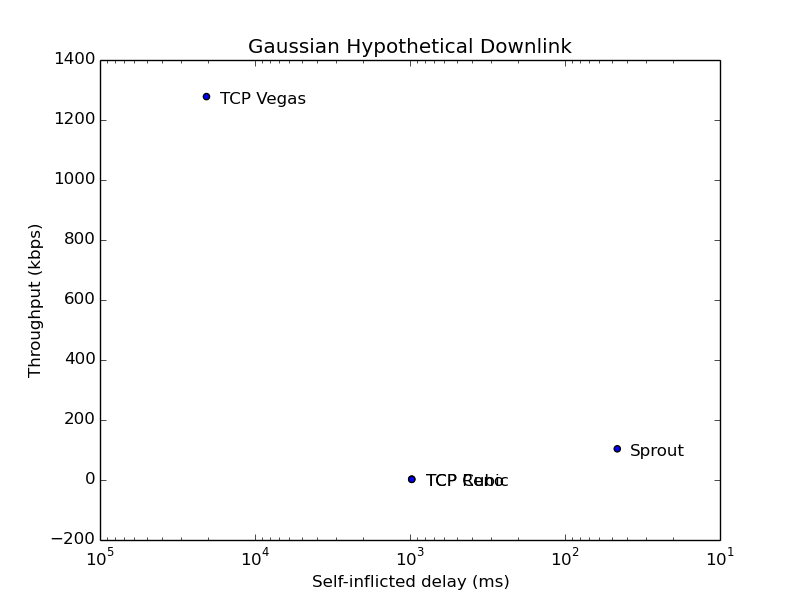
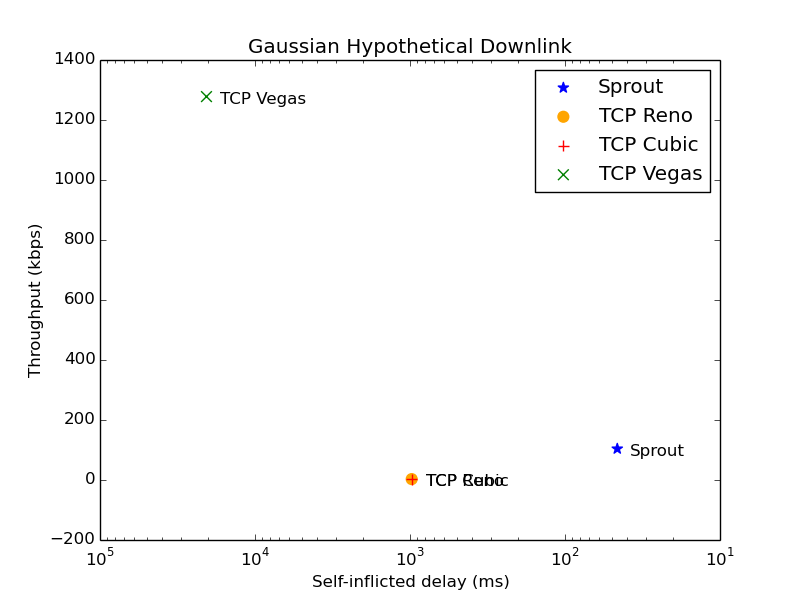
Prettify plots

Changed region(s): [[0.6562, 0.09, 0.9062, 0.33], [0.5, 0.78, 0.5312, 0.81], [0.25, 0.15, 0.2812, 0.18]]

diff --git a/create_plots.py b/create_plots.py
@@ -31,6 +31,20 @@ APPLICATION_NAME = {
     'tcp_vegas': 'TCP Vegas'
 }
 
+MARKER_STYLE = {
+    'sprout': '*',
+    'tcp_cubic': '+',
+    'tcp_vegas': 'x',
+    'tcp_reno': 'o'
+}
+
+COLOR = {
+    'sprout': 'b',
+    'tcp_cubic': 'r',
+    'tcp_vegas': 'g',
+    'tcp_reno': '#FFA500'
+}
+
 def read_data(path):
     with open(path) as f:
         return int(f.read())
@@ -139,24 +153,34 @@ def _plot(network, data, mode, error = False):
     plt.title('%s %s' % (NETWORK_NAME[network], mode.title()))
 
     if not error:
-        plt.scatter(
-            [data[app]['ud' if mode == 'uplink' else 'dd'] for app in data],
-            [data[app]['ut' if mode == 'uplink' else 'dt'] for app in data]
-        )
+        for app in data:
+            plt.scatter(
+                data[app]['ud' if mode == 'uplink' else 'dd'],
+                data[app]['ut' if mode == 'uplink' else 'dt'],
+                marker = MARKER_STYLE[app],
+                color = COLOR[app],
+                label = APPLICATION_NAME[app],
+                s = 60
+            )
     
     else:
-        plt.scatter(
-            [data[app]['ud-mean' if mode == 'uplink' else 'dd-mean'] for app in data],
-            [data[app]['ut-mean' if mode == 'uplink' else 'dt-mean'] for app in data]
-        )
-        plt.errorbar(
-            [data[app]['ud-mean' if mode == 'uplink' else 'dd-mean'] for app in data],
-            [data[app]['ut-mean' if mode == 'uplink' else 'dt-mean'] for app in data],
-            [data[app]['ud-std' if mode == 'uplink' else 'dd-std'] for app in data],
-            [data[app]['ut-std' if mode == 'uplink' else 'dt-std'] for app in data],
-            fmt = None
-        )
-    
+        for app in data:
+            plt.scatter(
+                data[app]['ud-mean' if mode == 'uplink' else 'dd-mean'],
+                data[app]['ut-mean' if mode == 'uplink' else 'dt-mean'],
+                marker = MARKER_STYLE[app],
+                color = COLOR[app],
+                label = APPLICATION_NAME[app],
+                s = 60
+            )
+            plt.errorbar(
+                data[app]['ud-mean' if mode == 'uplink' else 'dd-mean'],
+                data[app]['ut-mean' if mode == 'uplink' else 'dt-mean'],
+                data[app]['ud-std' if mode == 'uplink' else 'dd-std'],
+                data[app]['ut-std' if mode == 'uplink' else 'dt-std'],
+                fmt = None,
+                color = COLOR[app]
+            )
     for app in data:
         if not error:
             plt.annotate(APPLICATION_NAME[app],
@@ -168,6 +192,8 @@ def _plot(network, data, mode, error = False):
                 (data[app]['ud-mean' if mode == 'uplink' else 'dd-mean'],
                     data[app]['ut-mean' if mode == 'uplink' else 'dt-mean']),
                 xytext=(10, 5), textcoords='offset points',)
+                
+    plt.legend(scatterpoints = 1)
 
     fig.savefig('%s/%s-%s.png' % (PLOTS_PATH, network, mode))
     

diff --git a/create_trace.py b/create_trace.py
@@ -1,6 +1,5 @@
 ## Create a network trace using specified distribution for packet intervals
 
-import math
 import numpy
 import os
 import random
